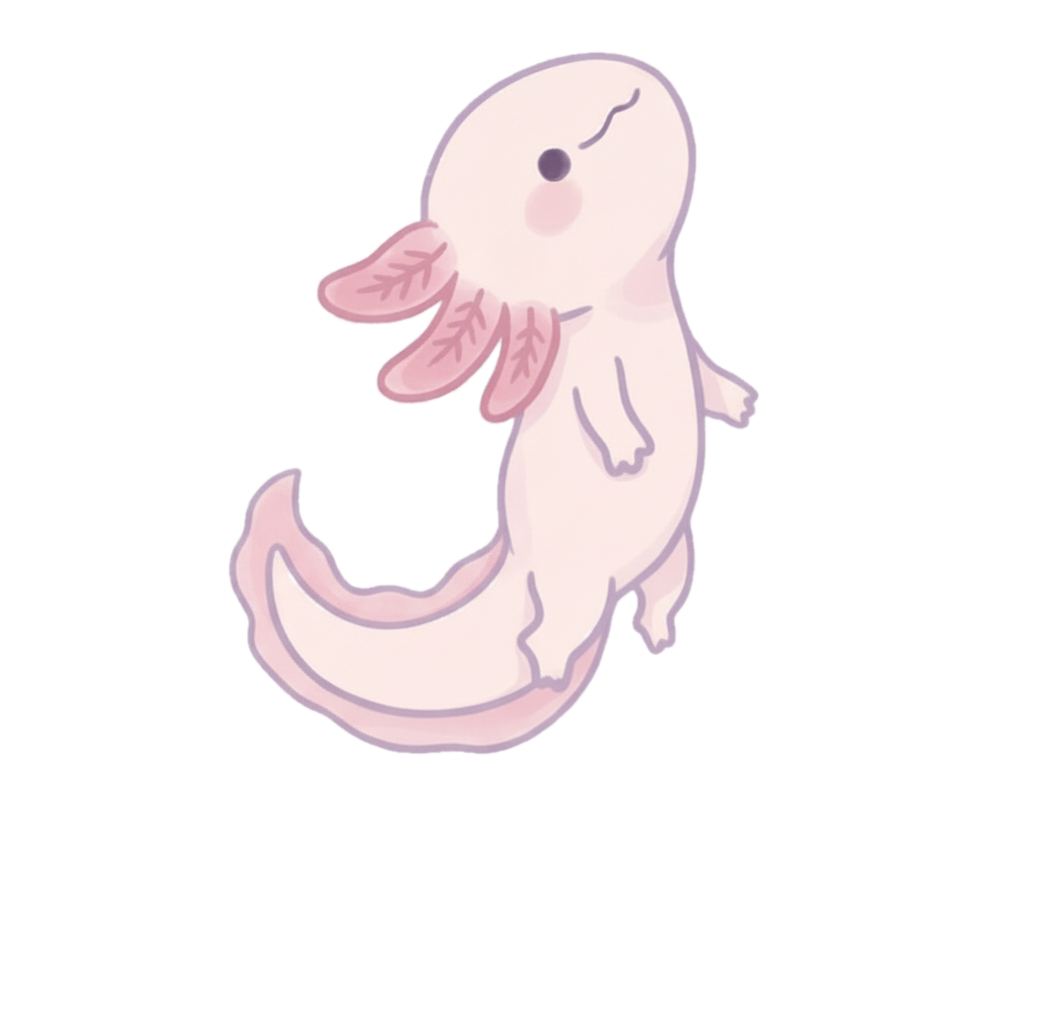
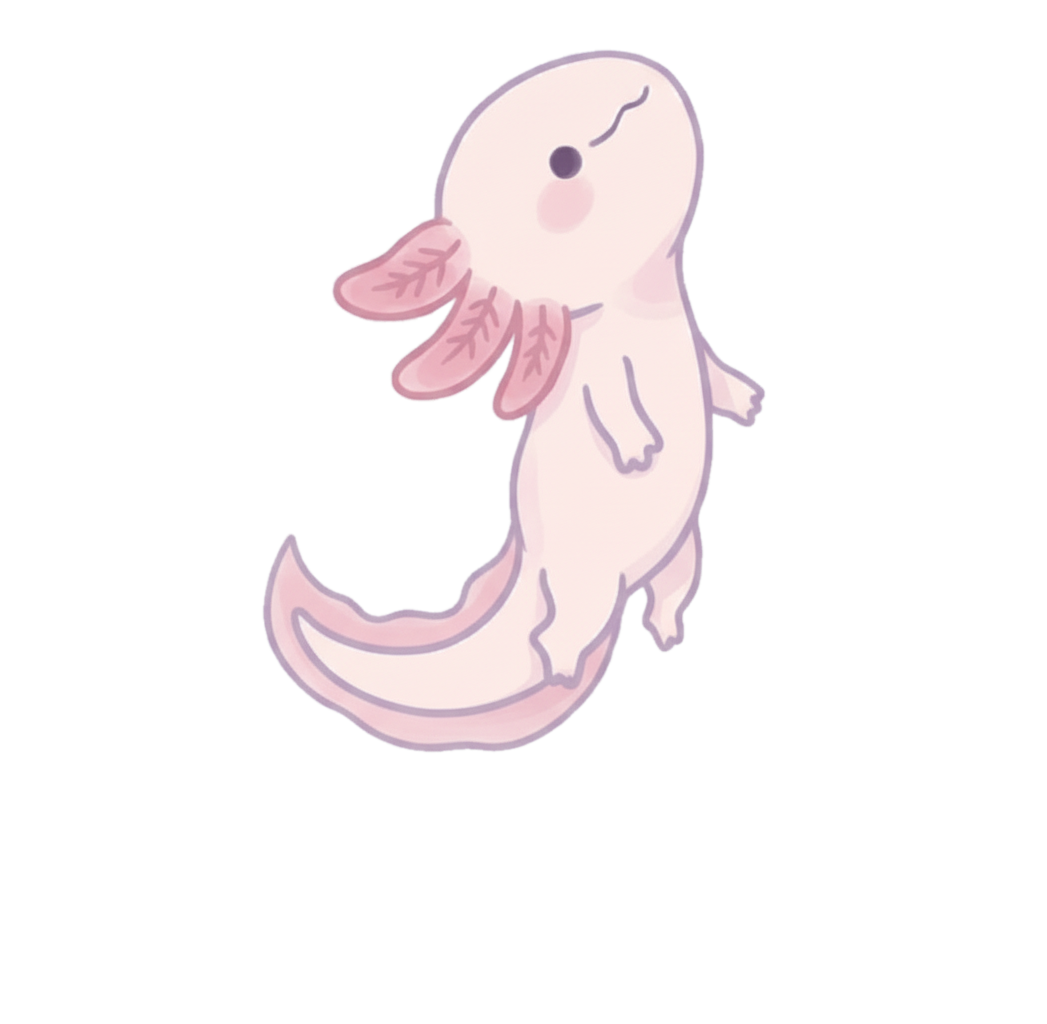
Lumi: duplicar frames de idle/swim_right/swim_up/swim_diagonal para movimiento más fluido
Pedido explícito del usuario: "tan pocos frames se ve cortado, mejoremos y
agreguemos mucho más frames para su movilidad... agrégale muchos más
frames para que sea más fluido sus movimientos y saltos entre movimiento
y otro."

- idle: 3 → 6 frames. swim_right/swim_up/swim_diagonal: 4 → 8 frames cada
  una. Un frame intermedio nuevo entre cada par consecutivo del ciclo,
  incluida la vuelta del último al primero (todas hacen loop con
  repeat:-1). sleep se deja fuera a propósito (poco visible, solo dispara
  por inactividad).
- Cada frame nuevo generado con Gemini a partir de sus dos vecinos reales
  como referencia ("el frame a medio camino entre A y B, no una pose
  nueva"), registrado sobre el ojo (detectado como el blob oscuro más
  circular de la cabeza, no por bounding box) para evitar el fantasma de
  cabeza duplicada documentado en el skill lumi-asset-gen — verificado con
  blend 50% contra ambos vecinos en toda la cadena de las 4 animaciones.
- LUMI_ANIM_FPS nuevo en LumiAnimConfig.ts: idle/swim_right/swim_up/
  swim_diagonal pasan a 16 FPS (el doble, junto con el doble de frames,
  para que el ciclo dure lo mismo en tiempo real, solo más fluido). sleep
  se queda a 8 FPS sin cambios.

Verificado: game.anims.get() confirma frame count/orden/FPS correctos
para las 5 animaciones, capturas in-game sin cambios de diseño, tsc y
build de producción limpios con los 30 PNG empaquetados.

Claude-Session: https://claude.ai/code/session_01NECFQR9dVFqZkCEBdrXX6e

diff --git a/src/config/LumiAnimConfig.ts b/src/config/LumiAnimConfig.ts
@@ -25,12 +25,29 @@ import { assetPath } from "@/config/assetPath";
 // de alpha — pedido explícito de más animación de BRAZOS. Los 2 frames
 // nuevos (ahora _02 y _04) alternan brazos adelante/atrás en un ciclo de
 // brazada; el antiguo _02 pasó a ser _03.
+//
+// idle/swim_right/swim_up/swim_diagonal DUPLICARON su número de frames
+// (pedido explícito: "tan pocos frames se ve cortado... agrégale muchos más
+// frames para que sea más fluido") insertando un frame INTERMEDIO generado
+// entre cada par de frames consecutivos del ciclo (incluida la vuelta del
+// último al primero, ya que todas estas animaciones hacen loop con
+// repeat:-1) — los frames originales conservan su pose exacta en las
+// posiciones impares, los nuevos van en las pares. Cada frame nuevo se
+// generó con Gemini a partir de sus dos vecinos como referencia y ancla de
+// estilo (ver skill lumi-asset-gen) y se registró sobre un punto focal
+// estable (el ojo — o el punto medio ojo+ceja en las poses de perfil con
+// dos manchas oscuras) para evitar el "fantasma" de cabeza duplicada.
+// LUMI_FPS se dobló en la misma ronda (ver más abajo) para que la duración
+// real del ciclo no cambie, solo su resolución temporal — doblar sólo el
+// número de frames sin doblar también el framerate habría dejado el mismo
+// ciclo reproduciéndose el doble de lento. sleep se deja para una ronda
+// aparte (animación poco visible, disparada solo por inactividad).
 export const LUMI_FRAME_COUNT: Record<string, number> = {
-  idle: 3,
+  idle: 6,
   sleep: 3,
-  swim_right: 4,
-  swim_up: 4,
-  swim_diagonal: 4,
+  swim_right: 8,
+  swim_up: 8,
+  swim_diagonal: 8,
   // Un solo frame: la pose de muerte (ojos en X, generada con Gemini, ver
   // lumi-asset-gen) no es una animación en bucle — se pone como textura
   // fija justo al empezar el giro/hundimiento (ver Lumi.showDeathFace).
@@ -45,6 +62,18 @@ export const LUMI_FRAME_COUNT: Record<string, number> = {
 };
 
 export const LUMI_FPS = 8; // pedido en el ejemplo de STYLE_GUIDE.md
+
+// Excepción por animación al LUMI_FPS por defecto: idle/swim_* doblaron su
+// número de frames en esta ronda (ver comentario de LUMI_FRAME_COUNT) y por
+// eso también doblan aquí su framerate — así el ciclo dura lo mismo en
+// tiempo real, solo con el doble de resolución temporal. sleep se queda
+// fuera a propósito (mismos 3 frames de siempre, sin tocar).
+export const LUMI_ANIM_FPS: Partial<Record<string, number>> = {
+  idle: 16,
+  swim_right: 16,
+  swim_up: 16,
+  swim_diagonal: 16,
+};
 
 export function framePath(folder: string, index: number): string {
   const n = String(index).padStart(2, "0");

diff --git a/src/systems/AnimationRegistry.ts b/src/systems/AnimationRegistry.ts
@@ -1,5 +1,5 @@
 import Phaser from "phaser";
-import { LUMI_FPS, LUMI_FRAME_COUNT, frameKey } from "@/config/LumiAnimConfig";
+import { LUMI_ANIM_FPS, LUMI_FPS, LUMI_FRAME_COUNT, frameKey } from "@/config/LumiAnimConfig";
 
 /**
  * Crea una Phaser.Animation por cada carpeta de /assets/characters/lumi/
@@ -17,7 +17,7 @@ export function registerLumiAnimations(scene: Phaser.Scene) {
     scene.anims.create({
       key: folder,
       frames,
-      frameRate: LUMI_FPS,
+      frameRate: LUMI_ANIM_FPS[folder] ?? LUMI_FPS,
       repeat: -1,
     });
   }

diff --git a/PROGRESS.md b/PROGRESS.md
@@ -2286,6 +2286,65 @@ funciona **hoy**, verificado en el código — no lo que el diseño aspira a ten
     ronda el propio `reachPx`, muy por debajo del margen de seguridad de
     `CORRIDOR_BAND_SPACING`), captura in-game confirmando arte correcto,
     build de producción empaquetando ambos PNG.
+- **Lumi: duplicar frames de idle/swim_right/swim_up/swim_diagonal**
+  (pedido explícito: "tan pocos frames se ve cortado, mejoremos y
+  agreguemos mucho más frames para su movilidad... agrégale muchos más
+  frames para que sea más fluido sus movimientos y saltos entre movimiento
+  y otro"). idle pasó de 3 a 6 frames, swim_right/swim_up/swim_diagonal de
+  4 a 8 cada una (swim_left/swim_down/boost siguen sin carpeta propia, se
+  derivan por flip de swim_right/swim_up; sleep se dejó fuera a propósito,
+  ver PRÓXIMA TAREA).
+  - **Método**: un frame INTERMEDIO nuevo entre cada par de frames
+    consecutivos del ciclo, incluida la vuelta del último al primero (las
+    4 animaciones hacen loop con `repeat:-1`, así que esa "costura" final
+    también necesitaba su intermedio). Cada frame se generó con Gemini
+    pasando SUS DOS VECINOS reales como referencia y pidiendo
+    explícitamente "el frame a medio camino entre A y B, no una pose
+    nueva" — mismo flujo de `lumi-asset-gen` que ya se usaba para
+    correcciones puntuales, aplicado aquí a generación de intermedios.
+  - **Registro sin fantasma**: siguiendo la advertencia ya documentada en
+    el skill (un frame puede encajar por bounding box completo y aun así
+    tener la cabeza desplazada respecto al resto del ciclo), cada frame
+    nuevo se realineó sobre un punto focal estable — el OJO — detectado
+    programáticamente como el blob oscuro más circular de la cabeza
+    (`fill area/bbox ≈0.8, aspecto ≈1`), no por bounding box. En las poses
+    de perfil (`swim_up`, `swim_diagonal`) hay una ceja/nariz cercana que
+    también sale oscura pero es un trazo fino y alargado (fill bajo,
+    aspecto muy distinto de 1) — promediarla con el ojo real (intento
+    inicial) desplazaba el punto de registro de forma inconsistente entre
+    frames y se notaba como un parpadeo del ojo en el blend de prueba;
+    corregido filtrando por circularidad para quedarse solo con el ojo de
+    verdad. Verificado con un blend sintético 50% entre cada frame nuevo y
+    sus dos vecinos reales (toda la cadena de cada animación, incluida la
+    costura del bucle) — cabeza/cara/cuerpo coinciden en una sola silueta
+    limpia en los 24 blends, el doble contorno solo aparece en las partes
+    que de verdad se mueven (brazos, patas, cola), que es lo esperado.
+  - **Un frame crudo de Gemini vino con fondo sólido en vez de
+    checkerboard/negro** (un lavado verde-grisáceo cubriendo el lienzo
+    entero) que `fix_transparency.py` no detecta (su heurística busca gris
+    casi neutro o negro, no cualquier color liso) — se añadió un limpiador
+    alternativo (flood-fill tolerante a degradado desde los bordes,
+    parando en el salto de contraste real del contorno lavanda del propio
+    dibujo) para ese caso puntual, sin tocar el script compartido.
+  - `LUMI_FPS` (usado por todas las animaciones de Lumi) se mantiene en 8,
+    pero ahora hay una excepción explícita por animación
+    (`LUMI_ANIM_FPS` en `LumiAnimConfig.ts`, leída por
+    `AnimationRegistry.ts`): idle/swim_right/swim_up/swim_diagonal pasan a
+    16 FPS — al doble de frames Y doble de framerate, el ciclo dura
+    exactamente lo mismo en tiempo real que antes, solo con el doble de
+    resolución temporal (doblar solo los frames sin doblar también el
+    framerate habría dejado el mismo ciclo reproduciéndose el doble de
+    lento). `sleep` se queda tal cual, a 8 FPS con sus 3 frames de
+    siempre.
+  - Verificado en juego con Playwright: `game.anims.get(key)` confirma
+    8/8/8/6 frames en el orden correcto y 16 FPS para las 4 animaciones
+    tocadas, 3 frames/8 FPS sin cambios para `sleep`; capturas in-game de
+    Lumi en idle y nadando (arriba/derecha) confirmando que el diseño
+    (proporciones, colores, contorno) no cambió, solo la cantidad de
+    frames; sin errores de consola nuevos (el único aviso de "MISSING
+    asset" es `water_overlay.png`, preexistente y ajeno a esta ronda).
+    `npx tsc --noEmit` y build de producción limpios, con los 30 PNG
+    nuevos/renumerados empaquetados en `dist/characters/lumi/`.
 
 # PENDIENTE
 
@@ -2350,15 +2409,31 @@ avanzando)
 
 # PRÓXIMA TAREA
 
-Esperar la reacción del usuario a esta ronda (corrección del dragón
-marino: ahora horizontal, cuerpo entero sin cortar, hueco solo antes de
-la cola, con vaivén de cuerpo + latigazo de cola). Verificado en juego
-que la orientación, el hueco y la animación se comportan como se pidió
-(capturas, muestreo de ángulos y posición, colisión letal), pero igual
-que con la primera versión, no se pudo confirmar por captura automatizada
-si el TIMING real de cronometrar el hueco (velocidad de deslizamiento,
-frecuencia de aparición) se siente bien jugado a mano — pedir
-confirmación de juego real antes de ajustar velocidad/tamaño del hueco.
+Esperar la reacción del usuario a dos rondas seguidas:
+
+1. **Dragón marino corregido** (horizontal, cuerpo entero sin cortar,
+   hueco solo antes de la cola, vaivén de cuerpo + latigazo de cola).
+   Verificado en juego que la orientación, el hueco y la animación se
+   comportan como se pidió (capturas, muestreo de ángulos y posición,
+   colisión letal), pero igual que con la primera versión, no se pudo
+   confirmar por captura automatizada si el TIMING real de cronometrar el
+   hueco (velocidad de deslizamiento, frecuencia de aparición) se siente
+   bien jugado a mano — pedir confirmación de juego real antes de ajustar
+   velocidad/tamaño del hueco.
+2. **Lumi: idle/swim_right/swim_up/swim_diagonal con el doble de frames**
+   (3→6 y 4→8). Verificado programáticamente que las 4 animaciones
+   reproducen el número de frames correcto, en el orden correcto, a 16
+   FPS (el doble de antes, así que el ciclo dura lo mismo en tiempo real)
+   y sin fantasma de cabeza duplicada en ningún blend de la cadena — pero
+   "se siente más fluido de verdad" es inherentemente subjetivo y solo se
+   puede confirmar jugando de verdad, igual que con el resto de
+   animaciones de este proyecto. `sleep` se dejó explícitamente FUERA de
+   esta ronda (sigue en 3 frames/8 FPS) — es una animación poco visible
+   (solo dispara por inactividad) y no se quiso gastar presupuesto de
+   generación ahí sin que el usuario lo pida; si el usuario también la
+   quiere más fluida, es la misma receta (frames intermedios + doblar
+   FPS) aplicada a una carpeta más.
+
 Si el usuario sigue viendo algo "cuadrado" en las paredes de laberinto de
 una ronda anterior,
 probablemente haga falta ver la captura exacta para saber si es una
